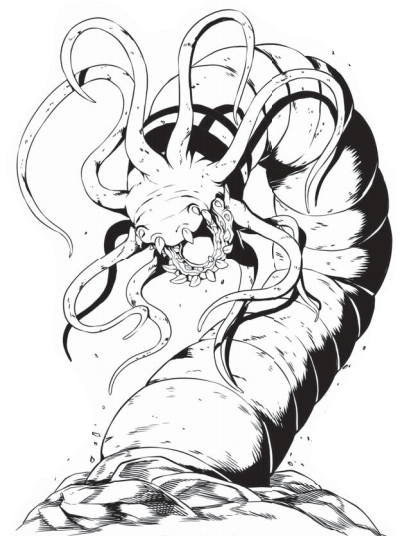
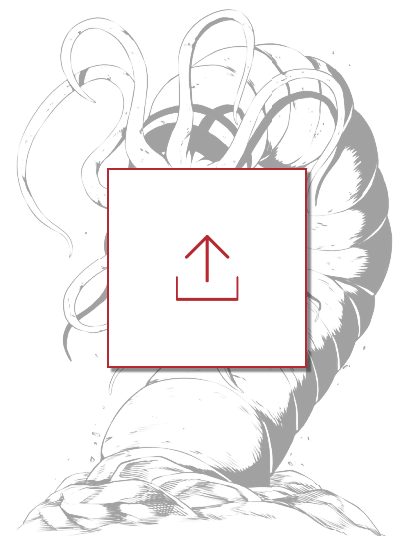
fix: show default image when base64 inst encoded correctly

Changed region(s): [[0.029, 0.0, 0.9565, 1.0], [0.1159, 0.4179, 0.1739, 0.4776]]

diff --git a/src/components/Sheet/Sheet.js b/src/components/Sheet/Sheet.js
@@ -95,7 +95,7 @@ export const Sheet = () => {
               level={monsterData.level}
             />
             <HealthPoints healthpoints={monsterData.healthpoints} />
-            <Mugshot image={window.atob(monsterData.mugshot)} />
+            <Mugshot image={monsterData.mugshot && window.atob(monsterData.mugshot)} />
           </Stats>
         </Container>
       )}
